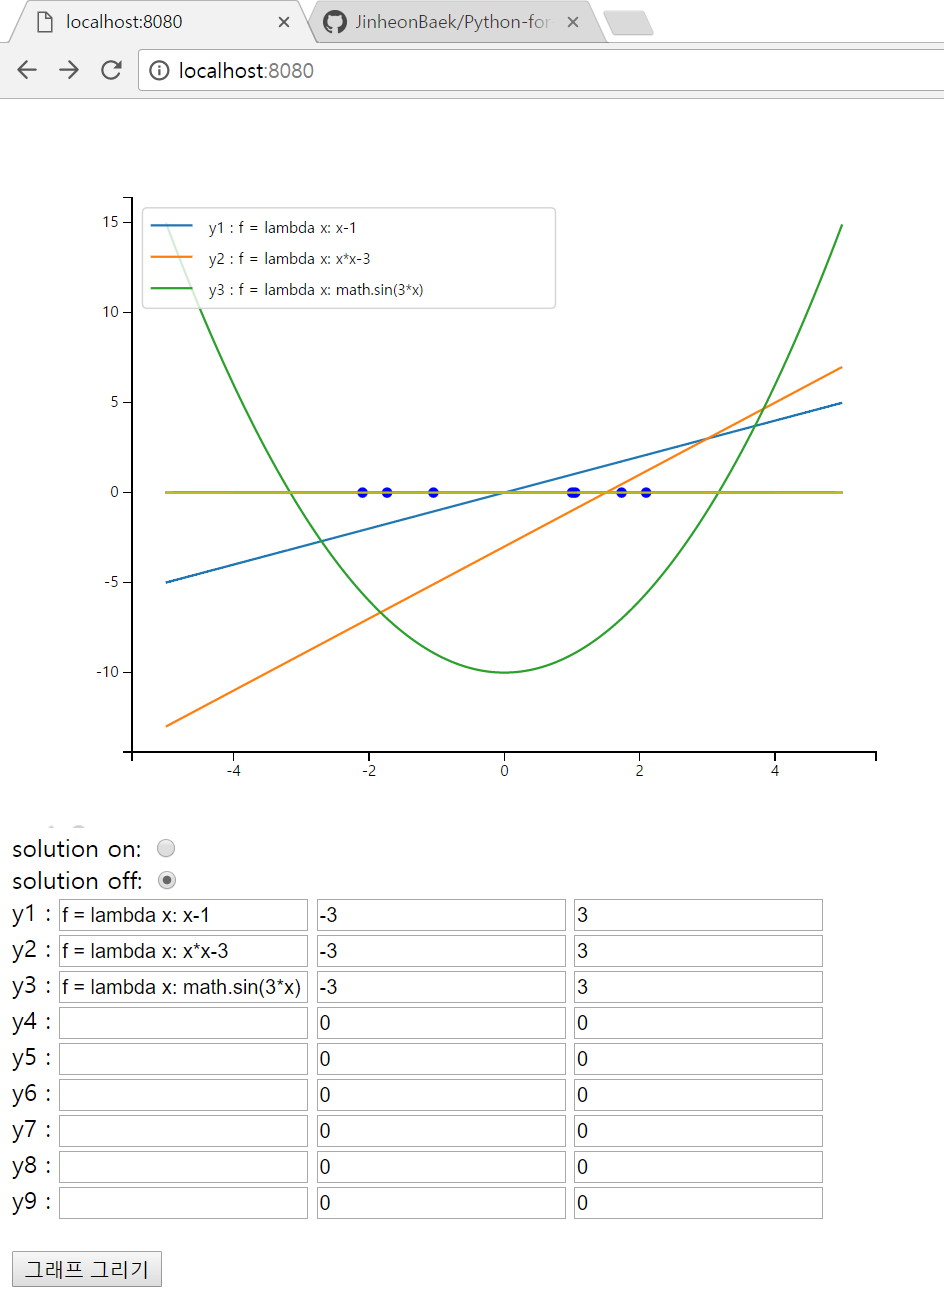
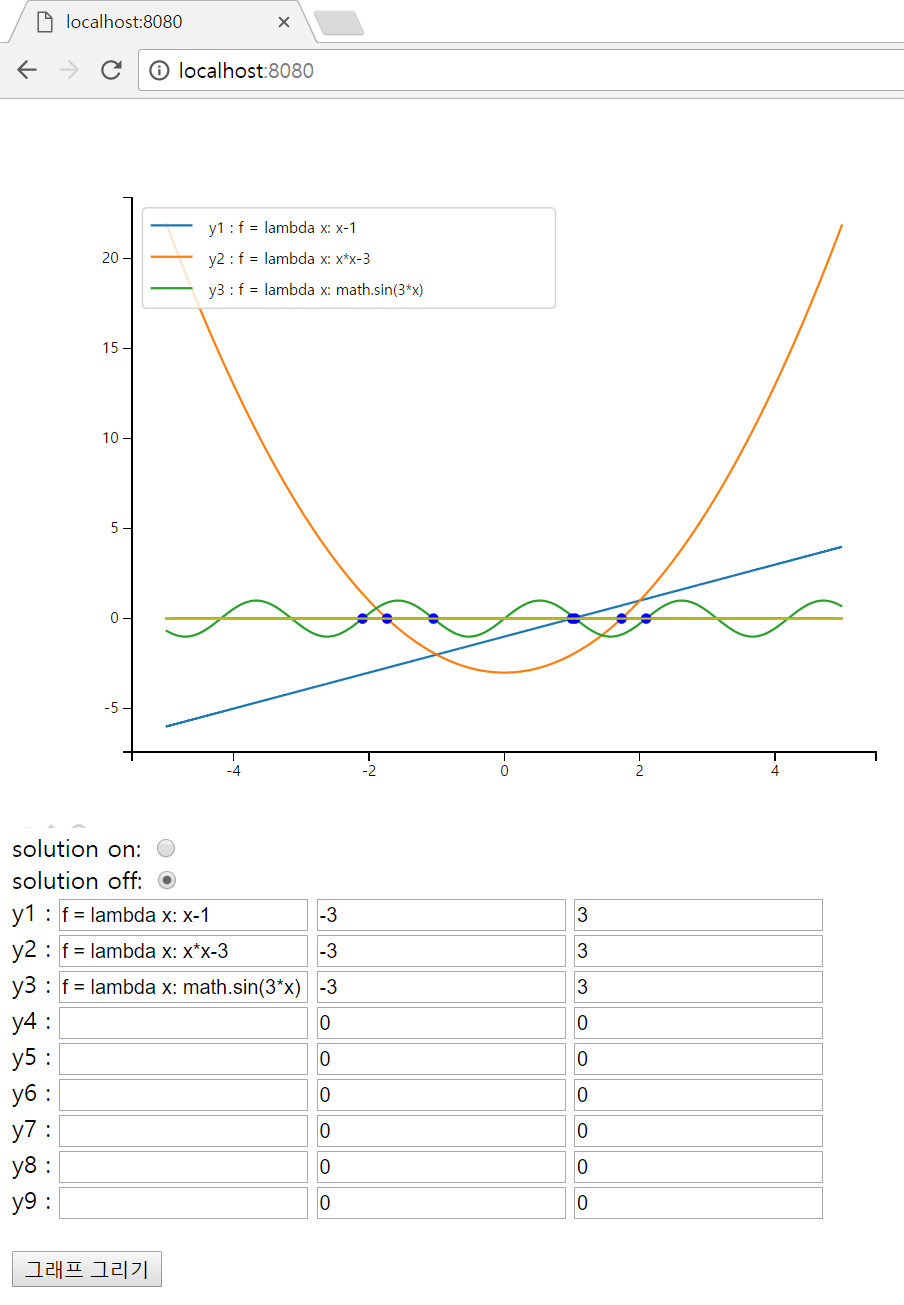
Fix up init graph error

diff --git a/graph.py b/graph.py
@@ -64,7 +64,7 @@ def draw(graphLst, funDatas, isSolve=True):
     return html
 
 def getSample():
-    graphLst = [Graph('y1', lambda x: x, solution=[1.00000000076294]), Graph('y2', lambda x: 2*x-3, solution=[-1.7320508073806766, 1.7320508073806762]), Graph('y3', lambda x: x*x-10, solution=[-2.09439510269165, -1.047197551345825, 1.047197551345825, 2.0943951026916507])]
+    graphLst = [Graph('y1', lambda x: x-1, solution=[1.00000000076294]), Graph('y2', lambda x: x*x-3, solution=[-1.7320508073806766, 1.7320508073806762]), Graph('y3', lambda x: math.sin(3*x), solution=[-2.09439510269165, -1.047197551345825, 1.047197551345825, 2.0943951026916507])]
     return graphLst
 
 def getGraphList(data):
